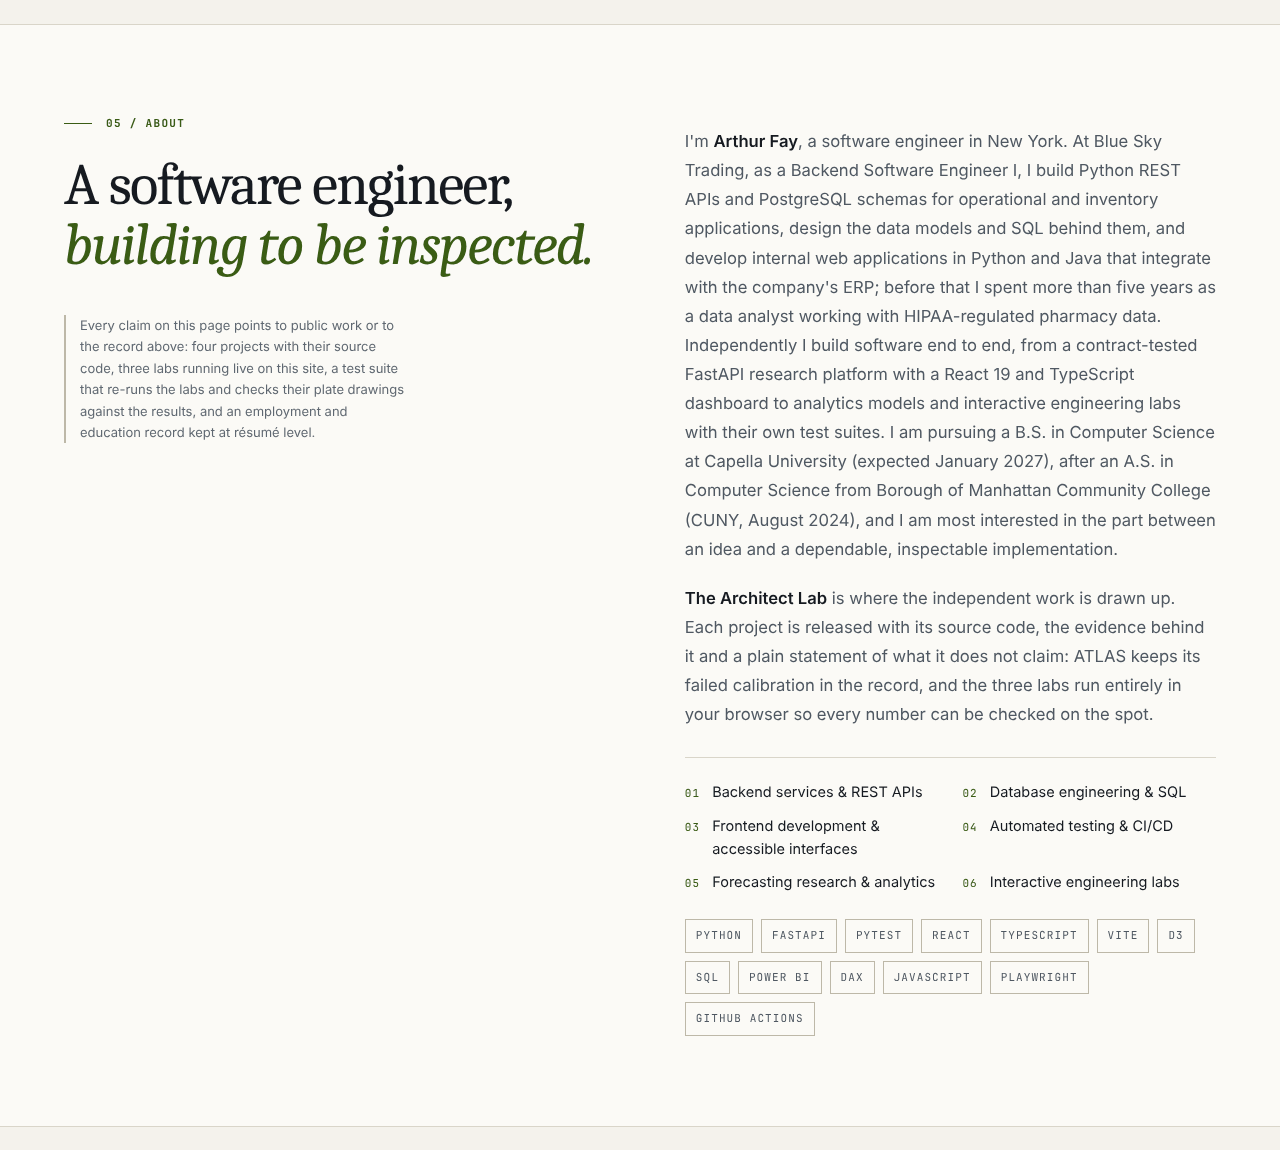
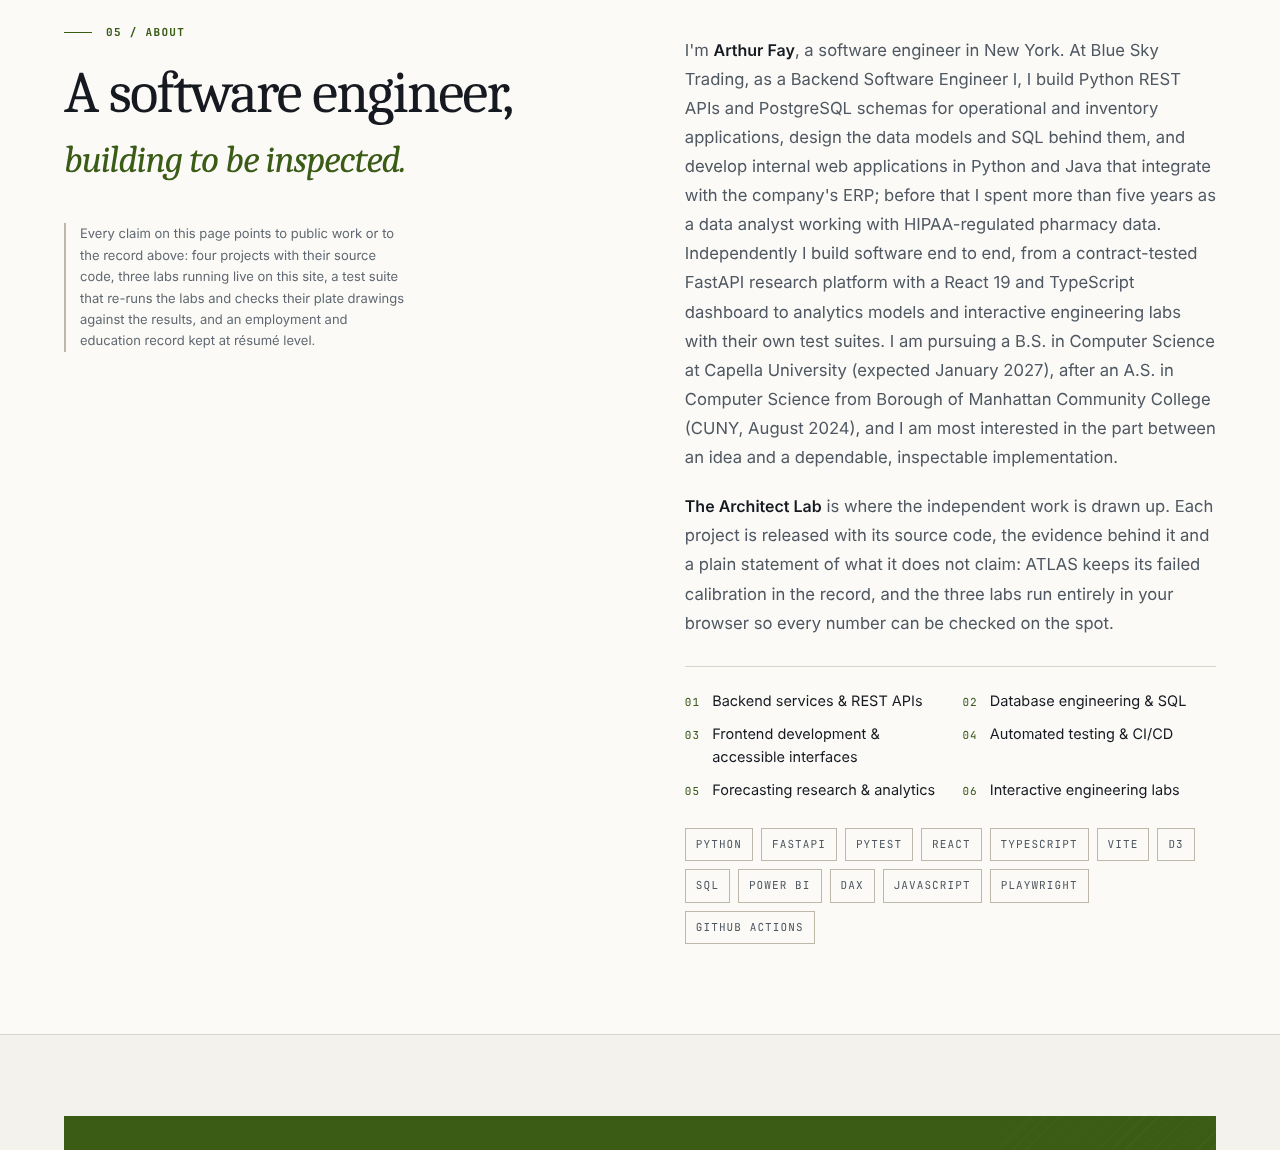
fix(mobile): wrap long technology chips inside their card on phones
The independent review found the Data Analyst entry's "Data integrity ·
audit readiness" chip 29.5px past the right edge of its card at 320px:
record chips are white-space: nowrap, so a label longer than the card's
content box overflowed. At 480px and below a chip may now wrap inside
itself (white-space: normal, max-width: 100%); desktop chips keep their
single-line design. At 375px every chip already fit on one line.

A browser test checks that every experience technology tag stays inside
its card's content box at 320px and 375px in both themes (it failed on
the previous stylesheet and passes now). The 320px capture is
regenerated and the reconciliation record notes the fix.

Claude-Session: https://claude.ai/code/session_01SBA6n8VQWNNk7JNc2rqukX

diff --git a/tests/browser/portfolio.test.js b/tests/browser/portfolio.test.js
@@ -436,6 +436,34 @@ describe('portfolio: experience, education, contact and privacy', () => {
     }
   });
 
+  it('keeps every experience technology tag inside its card at phone widths in both themes', async () => {
+    for (const width of [320, 375]) {
+      for (const colorScheme of ['dark', 'light']) {
+        const { page, problems, close } = await open('/', { viewport: { width, height: 850 }, colorScheme });
+        try {
+          const outside = await page.evaluate(() => {
+            const found = [];
+            for (const tag of document.querySelectorAll('#experience .record-tech li, #experience .stack-group dd span')) {
+              const card = tag.closest('.record-entry, .record-card');
+              const r = tag.getBoundingClientRect();
+              const c = card.getBoundingClientRect();
+              const s = getComputedStyle(card);
+              const left = c.left + parseFloat(s.borderLeftWidth) + parseFloat(s.paddingLeft);
+              const right = c.right - parseFloat(s.borderRightWidth) - parseFloat(s.paddingRight);
+              if (r.left < left - 0.5 || r.right > right + 0.5) found.push(`"${tag.textContent.trim()}" spans ${r.left.toFixed(1)}-${r.right.toFixed(1)} but the card's content box spans ${left.toFixed(1)}-${right.toFixed(1)}`);
+            }
+            return found;
+          });
+          assert.deepEqual(outside, [], `${width}px ${colorScheme}: every technology tag stays inside its card`);
+          assert.ok((await page.locator('#experience .record-tech li').count()) >= 15, 'the record carries its technology tags');
+          assert.deepEqual(problems, []);
+        } finally {
+          await close();
+        }
+      }
+    }
+  });
+
   it('carries the résumé headline in the document title and the social metadata, with the job title kept for the record', async () => {
     const { page, close } = await open('/');
     try {

diff --git a/styles.css b/styles.css
@@ -643,6 +643,8 @@ html:not(.js) .cut-panel+.cut-panel{margin-top:28px;border-top:1px solid var(--l
   .record-body h3{font-size:21px}
   .edu-entry h4{font-size:20px}
   .channel-name{font-size:18px}
+  /* Technology chips keep their single-line desktop design, but on phones a long label wraps inside its chip rather than running past the card. */
+  .record-tech li,.stratum-tech li{white-space:normal;max-width:100%}
 }
 @media (max-width:360px){
   .hero h1{font-size:40px}

diff --git a/docs/RESUME_RECONCILIATION_2026-10-22.md b/docs/RESUME_RECONCILIATION_2026-10-22.md
@@ -77,8 +77,8 @@ The ATLAS dashboard (static build), datasets, projections and NYC-derived charts
 - **05 / About.** "A software engineer, building to be inspected."; the copy names the current role and its work, the five-plus years as a data analyst under HIPAA, the independent work, and both degrees with their dates; the fields list now reads Backend services & REST APIs · Database engineering & SQL · Frontend development & accessible interfaces · Automated testing & CI/CD · Forecasting research & analytics · Interactive engineering labs; the about tags add Vite and D3.
 - **06 / Connect.** Open to software engineering roles (backend and REST APIs in Python, full-stack with TypeScript and React, database engineering with PostgreSQL); role chips Software Engineer · Backend Software Engineer · Full-Stack Engineer · Python & React · API / Database Engineer. GitHub remains the only channel; e-mail and LinkedIn "on my résumé and shared on request".
 - **Plates.** The four technology tag lists carry `role="group"` so their `aria-label` is valid ARIA (axe "needs review" item resolved). Plates 02–04 are otherwise unchanged; every lab and interactive feature is untouched.
-- **Stylesheet.** `.stack-group-text dd` (the practices sentence); on phones the dates row and the body of each experience entry share one 26 px left edge (previously 26 px and 30 px), both 9 px clear of the 16 px hatch and its border; at 360 px and below the education chips use 10 px type with slightly tighter tracking so *In progress · expected Jan 2027* stays on one line at 320 px.
-- **Checker and tests.** `scripts/check_site.py` requires both degrees with their dates, both job titles, both employers, the headline title and the Stack wording, forbids the superseded wording (the former pharmacy title, the former headline, a completed bachelor's) and rejects operational volumes or product counts in the employment entries. `tests/unit/profile.test.js` (25 tests) checks the same from the committed files, plus the metadata, the hero copy, the about fields, the contact roles, the exact stack groups and chips, the practices line, the pharmacy and engineering competencies and the new ATLAS wording. `tests/browser/portfolio.test.js` gained three tests (both degrees fitting the title block and the education card at 320 and 375 px with each chip on one line; one left edge for dates and body at 320, 375, 600 and 900 px; the headline in the document title and metadata with the job title kept for the record) and updates to five (the hero's identity terms, the about fields, the record titles and degrees, the contact roles, the single permitted "AI-assisted development" phrase).
+- **Stylesheet.** `.stack-group-text dd` (the practices sentence); on phones the dates row and the body of each experience entry share one 26 px left edge (previously 26 px and 30 px), both 9 px clear of the 16 px hatch and its border; at 360 px and below the education chips use 10 px type with slightly tighter tracking so *In progress · expected Jan 2027* stays on one line at 320 px; at 480 px and below a long technology chip wraps inside itself instead of running past its card (the independent review found *Data integrity · audit readiness* 29.5 px past the Data Analyst card at 320 px; desktop chips keep their single-line design).
+- **Checker and tests.** `scripts/check_site.py` requires both degrees with their dates, both job titles, both employers, the headline title and the Stack wording, forbids the superseded wording (the former pharmacy title, the former headline, a completed bachelor's) and rejects operational volumes or product counts in the employment entries. `tests/unit/profile.test.js` (25 tests) checks the same from the committed files, plus the metadata, the hero copy, the about fields, the contact roles, the exact stack groups and chips, the practices line, the pharmacy and engineering competencies and the new ATLAS wording. `tests/browser/portfolio.test.js` gained four tests (both degrees fitting the title block and the education card at 320 and 375 px with each chip on one line; one left edge for dates and body at 320, 375, 600 and 900 px; every experience technology tag inside its card's content box at 320 and 375 px in both themes; the headline in the document title and metadata with the job title kept for the record) and updates to five (the hero's identity terms, the about fields, the record titles and degrees, the contact roles, the single permitted "AI-assisted development" phrase).
 - **README.** Identity line, the professional-profile section, the degree bullet under "Edits to make next" and the pointer to this record.
 
 ## 5. Privacy verification
@@ -103,14 +103,14 @@ All measurements were made in the review environment (Linux, headless Chromium 1
 | `python3 scripts/check_site.py` | passed (homepage: 88 links, 54 IDs; all four pages) |
 | `node --check` on every script | passed |
 | `node --test tests/unit/*.test.js` | 213 passed, 0 failed (209 on `main` + 4 new) |
-| `node --test tests/browser/*.test.js` | 134 passed, 0 failed (131 on `main`, 5 updated, + 3 new; desktop, laptop, tablet and phone viewports in both themes) |
+| `node --test tests/browser/*.test.js` | 135 passed, 0 failed (131 on `main`, 5 updated, + 4 new; desktop, laptop, tablet and phone viewports in both themes) |
 | axe-core (WCAG 2.0/2.1/2.2 A and AA rules plus best practices), homepage, dark and light, 1280 px and 375 px | 0 violations after the landmark fix; "needs review": `color-contrast` on elements whose background axe cannot resolve behind pseudo-elements (covered by the repository's own token-contrast unit tests in both themes) |
 | axe-core, `/404.html` | 0 violations |
 | axe-core, the three labs (unchanged pages) | pre-existing findings only, listed in section 9 |
 | Keyboard | the existing browser tests cover the skip link as first tab stop, every control named, the section-cut arrow keys, the mobile menu's focus handling; the record adds no widgets |
-| Layout | no horizontal overflow and nothing clipped at 320, 375, 768, 1100, 1280 and 1920 px in both themes; the education chips fit on one line at 320 and 375 px; the hatch clearance test (≥ 8 px at 320, 375 and 768 px) passes |
+| Layout | no horizontal overflow and nothing clipped at 320, 375, 768, 1100, 1280 and 1920 px in both themes; the education chips fit on one line at 320 and 375 px; every experience technology tag stays inside its card at 320 and 375 px in both themes (the one chip that overflowed before the fix now wraps); the hatch clearance test (≥ 8 px at 320, 375 and 768 px) passes |
 
-**Transfer size** (gzip, as GitHub Pages serves it): `index.html` 19.9 KB → 20.9 KB; `styles.css` 11.8 KB → 12.0 KB; `script.js` unchanged at 3.6 KB; `social-card.png` 62.6 KB → 63.9 KB (crawlers only).
+**Transfer size** (gzip, as GitHub Pages serves it): `index.html` 19.9 KB → 20.9 KB; `styles.css` 11.8 KB → 12.1 KB; `script.js` unchanged at 3.6 KB; `social-card.png` 62.6 KB → 63.9 KB (crawlers only).
 
 **Evidence links** (every outbound `href` on the homepage): the five ATLAS documents exist at `98a88b5`; the two `customer-revenue-analytics` README anchors (`#dashboard-preview`, `#data-model`) exist at `795257d`; the six portfolio `blob/main` targets exist in this repository; the GitHub profile and the three repository roots are unchanged.
 
